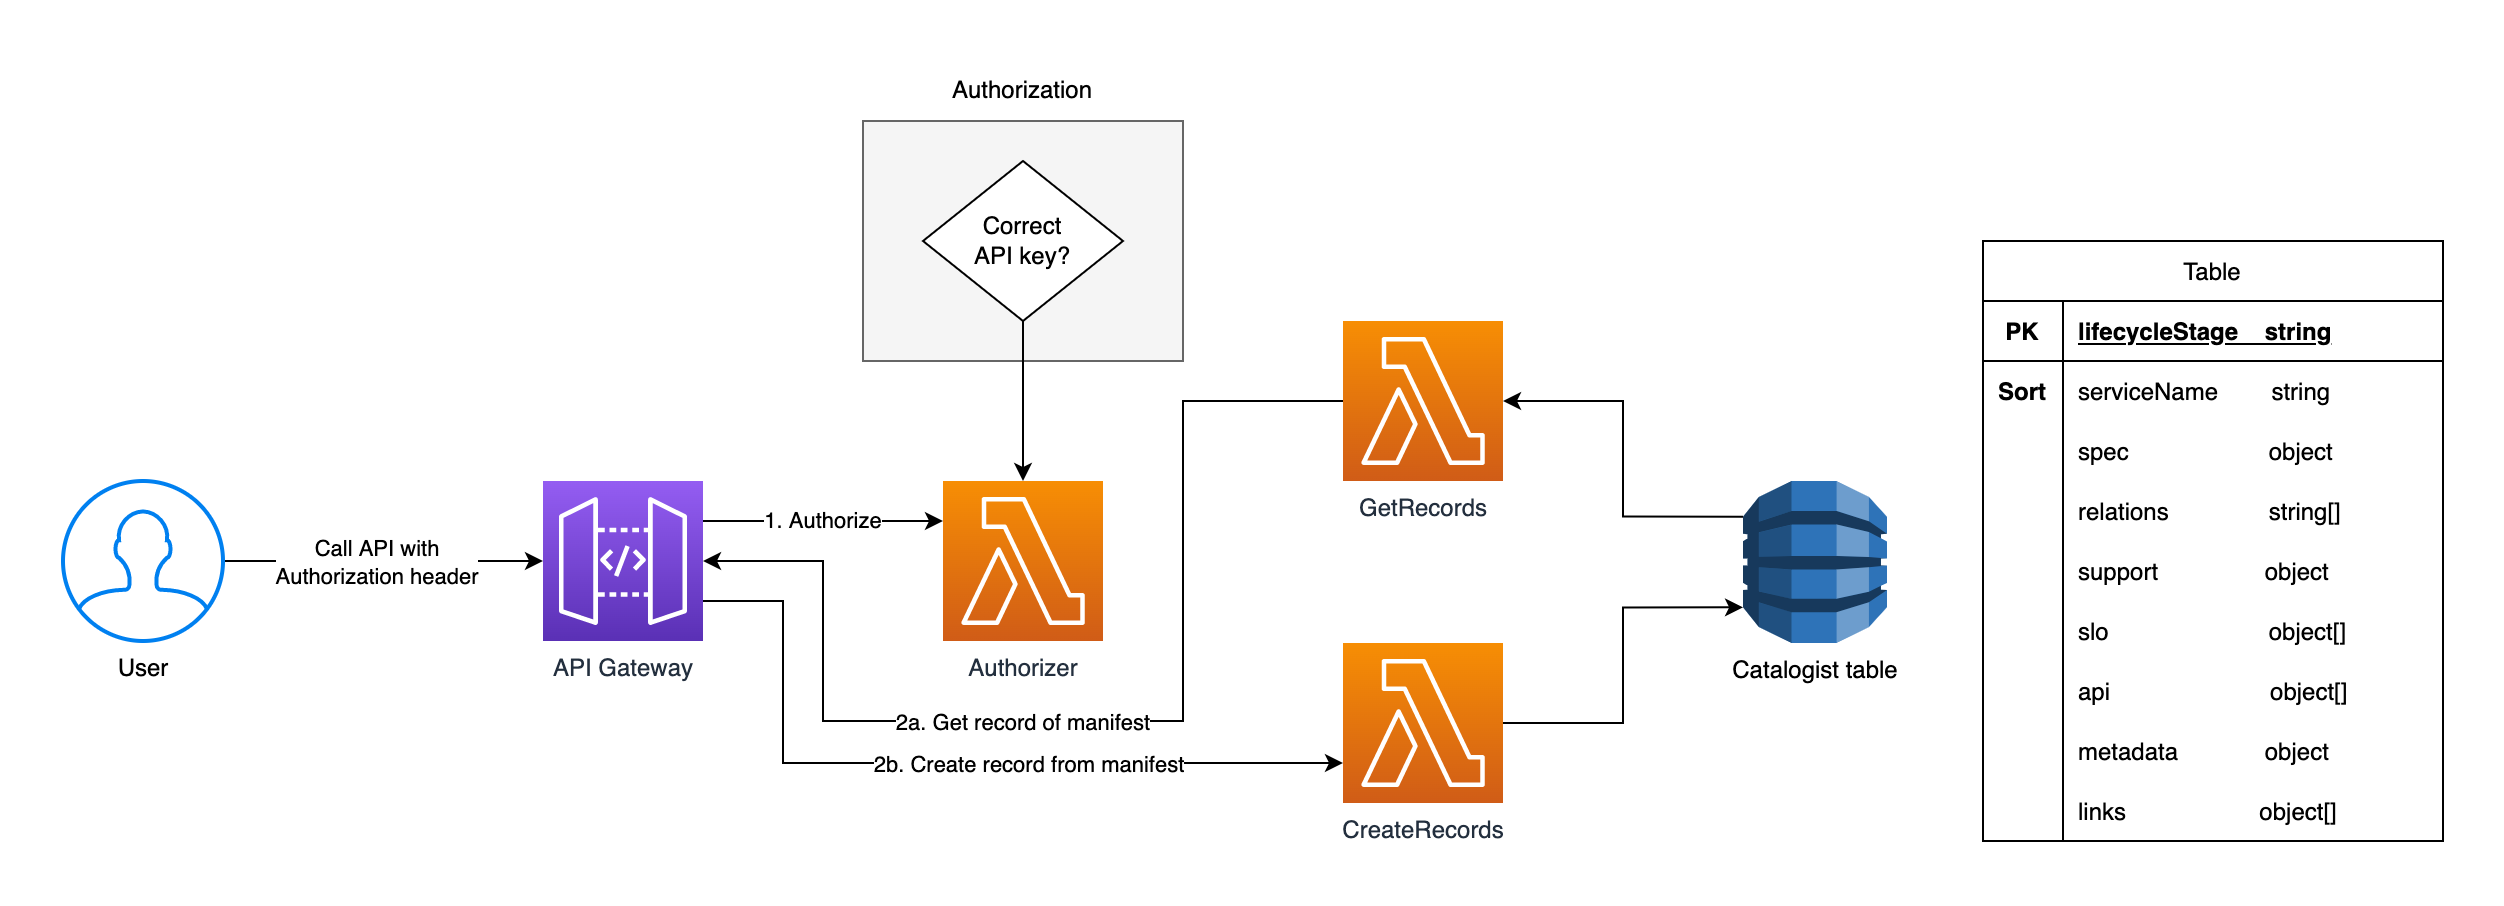
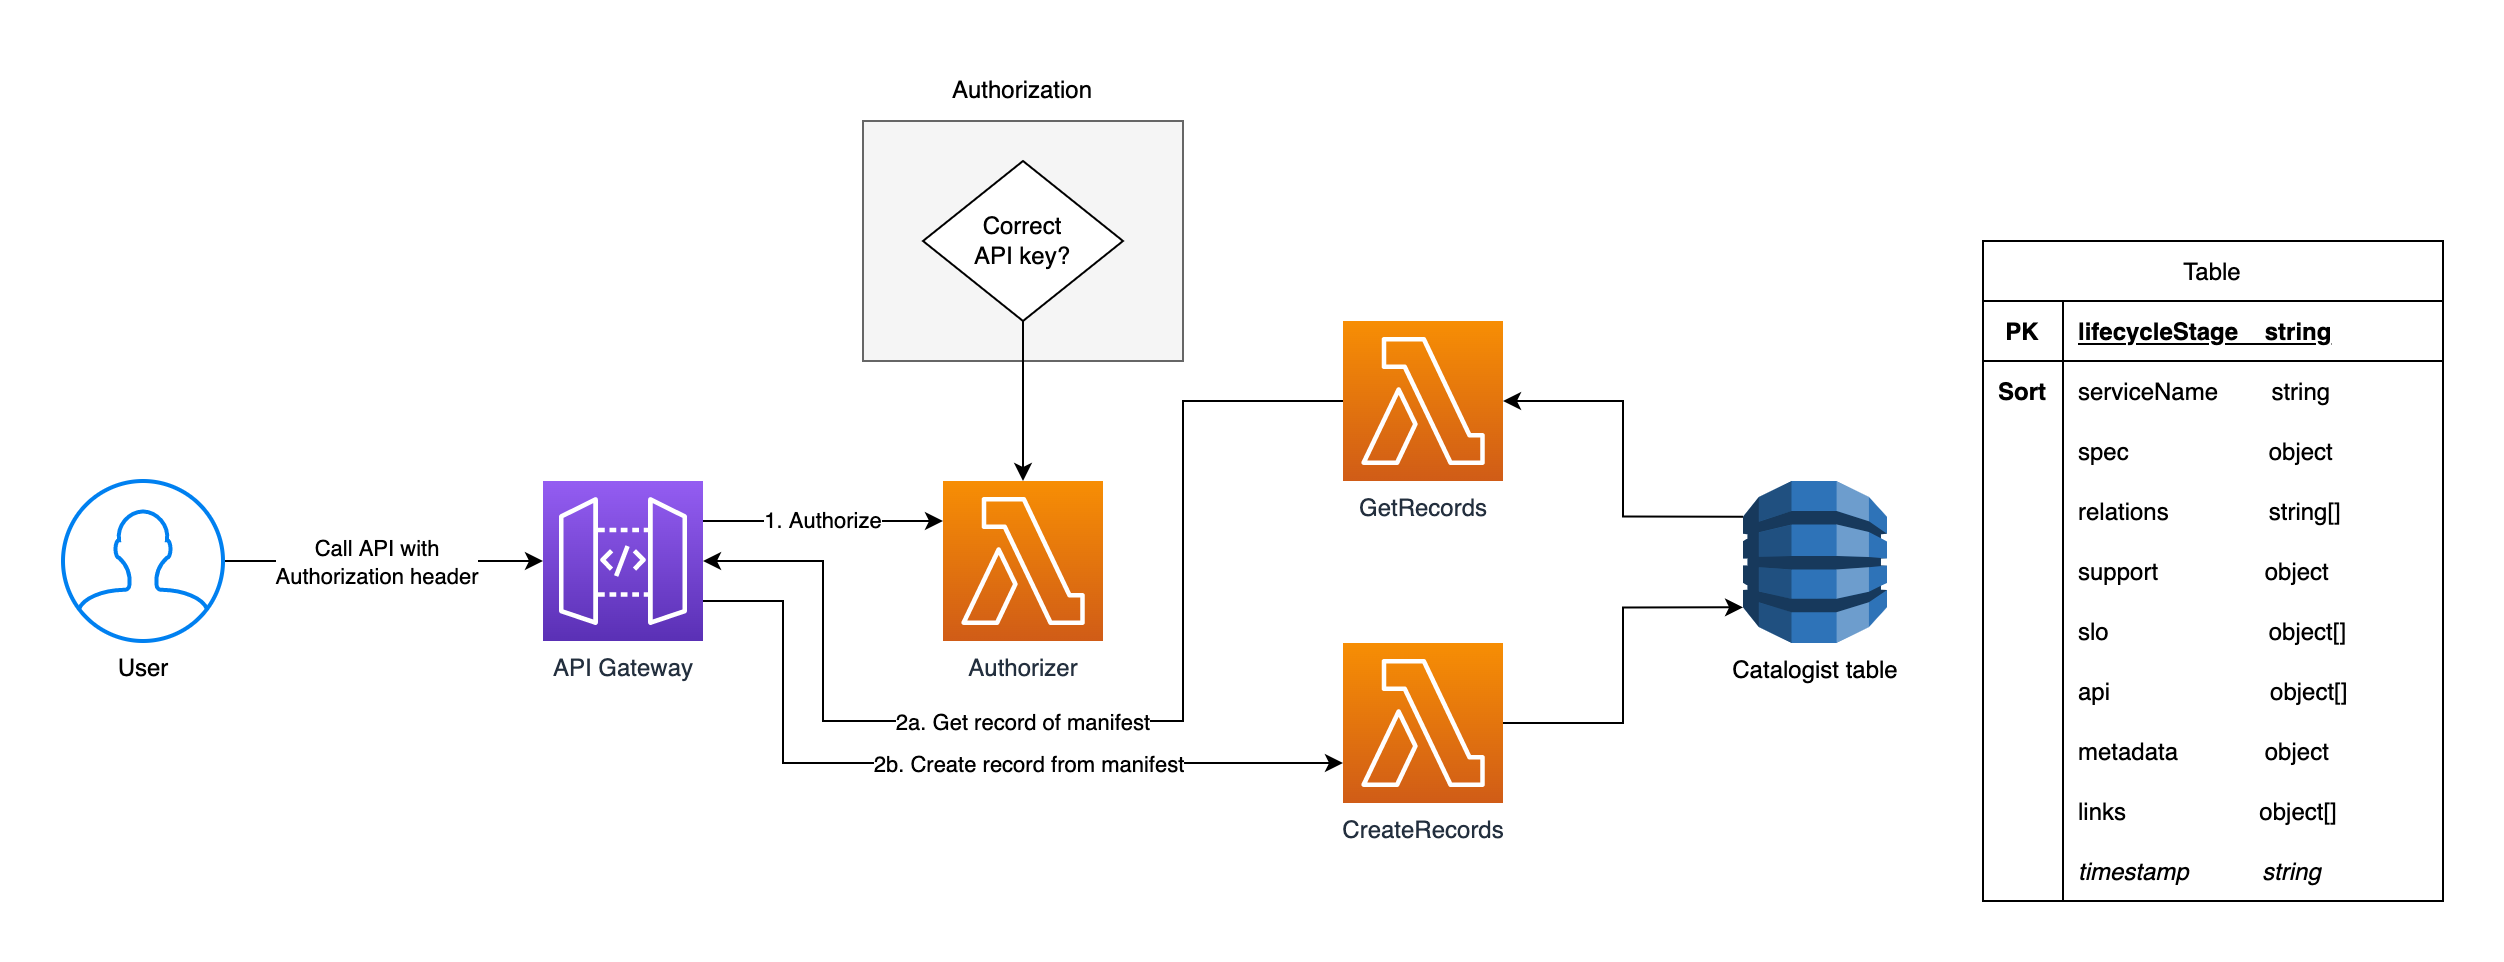
docs(): update diagram and API examples with timestamp

diff --git a/README.md b/README.md
@@ -402,19 +402,22 @@ The basic "get records" call will get all records that have `spec.lifecycleStage
   {
     "spec": {
       "serviceName": "my-service",
-      "lifecycleStage": "production"
+      "lifecycleStage": "production",
+      "timestamp": 1641987006000
     }
   },
   {
     "spec": {
       "serviceName": "some-other-service",
-      "lifecycleStage": "production"
+      "lifecycleStage": "production",
+      "timestamp": 1641987007000
     }
   },
   {
     "spec": {
       "serviceName": "user-service",
-      "lifecycleStage": "production"
+      "lifecycleStage": "production",
+      "timestamp": 1641987008000
     }
   }
 ]
@@ -435,7 +438,8 @@ If no `lifecycleStage` is provided, `production` will be inferred.
   {
     "spec": {
       "serviceName": "my-service",
-      "lifecycleStage": "production"
+      "lifecycleStage": "production",
+      "timestamp": 1641987006000
     }
   }
 ]
@@ -456,13 +460,15 @@ Get multiple services in the `production` lifecycle stage.
   {
     "spec": {
       "serviceName": "my-service",
-      "lifecycleStage": "production"
+      "lifecycleStage": "production",
+      "timestamp": 1641987006000
     }
   },
   {
     "spec": {
       "serviceName": "some-other-service",
-      "lifecycleStage": "production"
+      "lifecycleStage": "production",
+      "timestamp": 1641987007000
     }
   }
 ]
@@ -483,13 +489,15 @@ Get all records by lifecycle stage.
   {
     "spec": {
       "serviceName": "test-service",
-      "lifecycleStage": "testing"
+      "lifecycleStage": "testing",
+      "timestamp": 1641987004000
     }
   },
   {
     "spec": {
       "serviceName": "api-testing-service",
-      "lifecycleStage": "testing"
+      "lifecycleStage": "testing",
+      "timestamp": 1641987005000
     }
   }
 ]
@@ -510,7 +518,8 @@ Use a combination of lifecycle stage and service name.
   {
     "spec": {
       "serviceName": "test-service",
-      "lifecycleStage": "testing"
+      "lifecycleStage": "testing",
+      "timestamp": 1641987004000
     }
   }
 ]
@@ -531,13 +540,15 @@ Get multiple services by name and lifecycle stage.
   {
     "spec": {
       "serviceName": "my-service",
-      "lifecycleStage": "production"
+      "lifecycleStage": "production",
+      "timestamp": 1641987006000
     }
   },
   {
     "spec": {
       "serviceName": "some-other-service",
-      "lifecycleStage": "production"
+      "lifecycleStage": "production",
+      "timestamp": 1641987007000
     }
   }
 ]
